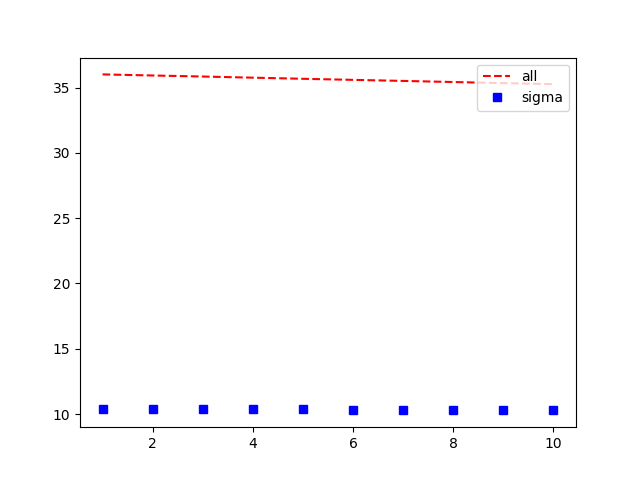
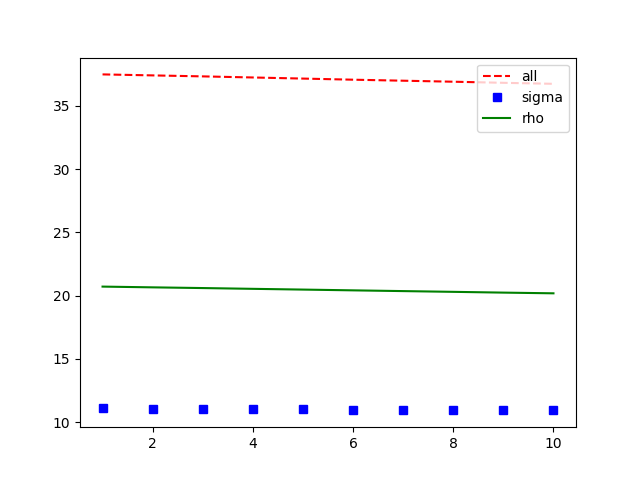
test

diff --git a/lorenz_nn.py b/lorenz_nn.py
@@ -256,7 +256,7 @@ plt.savefig(os.path.join(my_results_path_abso, my_results_file0))
 x_axis1 = np.arange(1,EPOCH+1)
 print(x_axis1)
 #plt.plot(x_axis1, error_all, 'r--', x_axis1, error_sigma, 'bs', x_axis1, error_rho, 'g^', x_axis1, error_beta, 'y*')
-plt.plot(x_axis1, error_all, 'r--', x_axis1, error_sigma, 'bs')
+plt.plot(x_axis1, error_all, 'r--', x_axis1, error_sigma, 'bs', x_axis1, error_rho, 'g')
 label = ['all', 'sigma', 'rho', 'beta']
 plt.legend(label, loc='upper right')
 my_results_file1 = 'all_epoch_par1'
